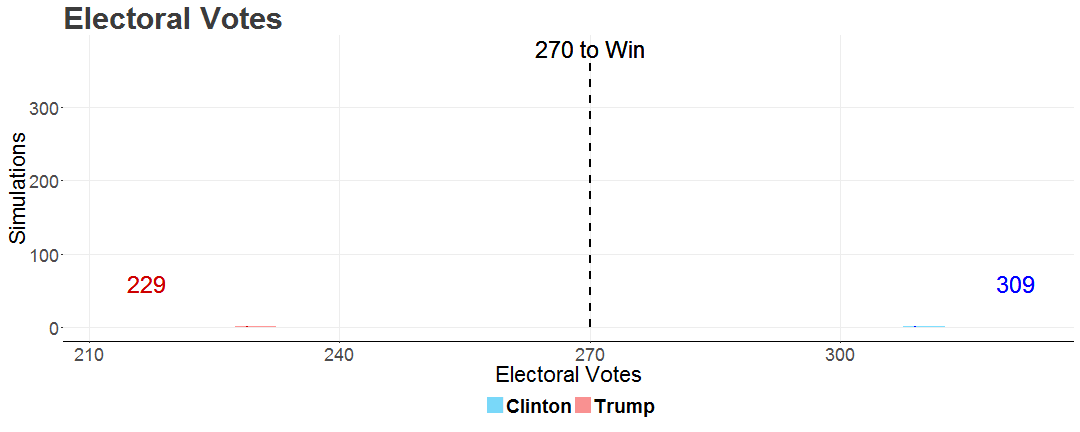
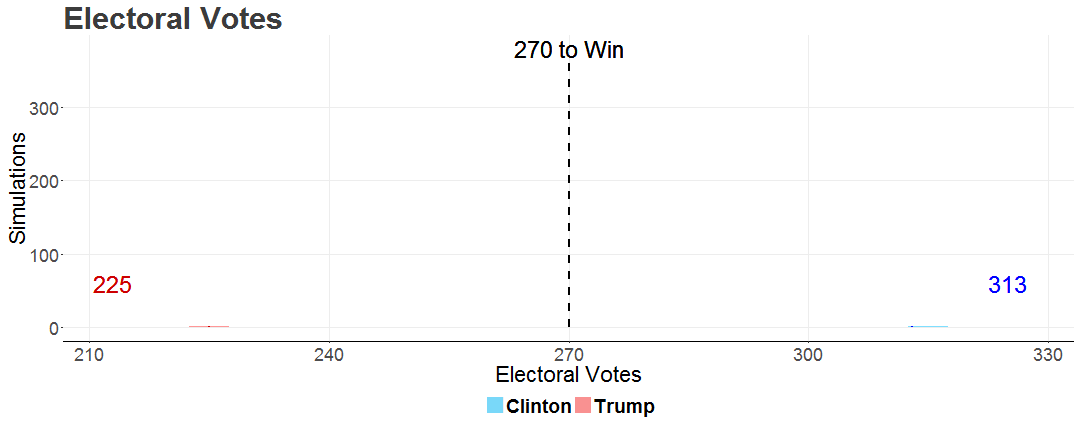
update

diff --git a/index.html b/index.html
@@ -17,11 +17,14 @@ th {
     font-size: 20px;
 }
 .left {
-    position:absolute;
+    position:fixed;
     left:20px; top:92px; bottom: 0;
     width: 230px;
 }
-
+@media all and (max-width: 1650px) {
+    .floated_div { display: none; 
+  }
+}
 </style>
 
 <style>
@@ -106,6 +109,7 @@ th {
 
     <title>2016 General Election Forecasts</title>
     <meta name="viewport" content="width=device-width, initial-scale=1.0">
+    <meta property="og:description" content="Predictions for the 2016 Presidential Election" />
     <!--
     production
     <link href="http://twitter.github.io/bootstrap/assets/css/bootstrap.css" rel="stylesheet">
@@ -127,7 +131,6 @@ th {
         });
       });
     </script>
-  <meta property="og:description"   content="Predictions for the 2016 Presidential Election" />
   </head>
   <body style="padding-top: 50px;">
   
@@ -165,10 +168,13 @@ th {
     
     <div class="container">
 
-        <div class="left"><p class='lead' align="left">Author: Elliott Evans</p>
-      <p class='lead' align="left"><a href="https://twitter.com/Elliott_Evans1" class="twitter-follow-button" data-show-count="false">Follow @Elliott_Evans1</a><script async src="//platform.twitter.com/widgets.js" charset="utf-8"></script></p>
-      <div class="fb-share-button" data-href="https://elliottevans.github.io/election_forecasts/" data-layout="button" data-size="large" data-mobile-iframe="true"><a class="fb-xfbml-parse-ignore" target="_blank" href="https://www.facebook.com/sharer/sharer.php?u=https%3A%2F%2Felliottevans.github.io%2Felection_forecasts%2F&amp;src=sdkpreparse">Share</a></div>
-        </div>
+    <div class="floated_div">
+      <div class="left"><p class='lead' align="left"><u>Creator</u>: <br>Elliott Evans</br></p>
+        <p class='lead' align='left'><u>Email</u>: <a href="mailto:ellevans@umich.edu" target="_top">ellevans@umich.edu</a></p>
+        <p class='lead' align="left"><a href="https://twitter.com/Elliott_Evans1" class="twitter-follow-button" data-show-count="false">Follow @Elliott_Evans1</a><script async src="//platform.twitter.com/widgets.js" charset="utf-8"></script></p>
+        <div class="fb-share-button" data-href="https://elliottevans.github.io/election_forecasts/" data-layout="button" data-size="large" data-mobile-iframe="true"><a class="fb-xfbml-parse-ignore" target="_blank" href="https://www.facebook.com/sharer/sharer.php?u=https%3A%2F%2Felliottevans.github.io%2Felection_forecasts%2F&amp;src=sdkpreparse">Share</a></div>
+      </div>
+    </div>
   
       <div class="row" style="padding-bottom: 30px;">
         <div class="span8" id="title">
@@ -195,7 +201,7 @@ th {
 
       <div class="row">
         <div class="span12">
-          <p class="lead">Presidential elections are all about who can get to 270 electoral votes. After simulating the election ten-thousand times, the model predicts a <b>348-190</b> electoral win for <b>Hillary Clinton</b>.</p>
+          <p class="lead">Presidential elections are all about who can get to 270 electoral votes. After simulating the election ten-thousand times, the model predicts a <b>313-225</b> electoral win for <b>Hillary Clinton</b>.</p>
         </div>
       </div>
       
